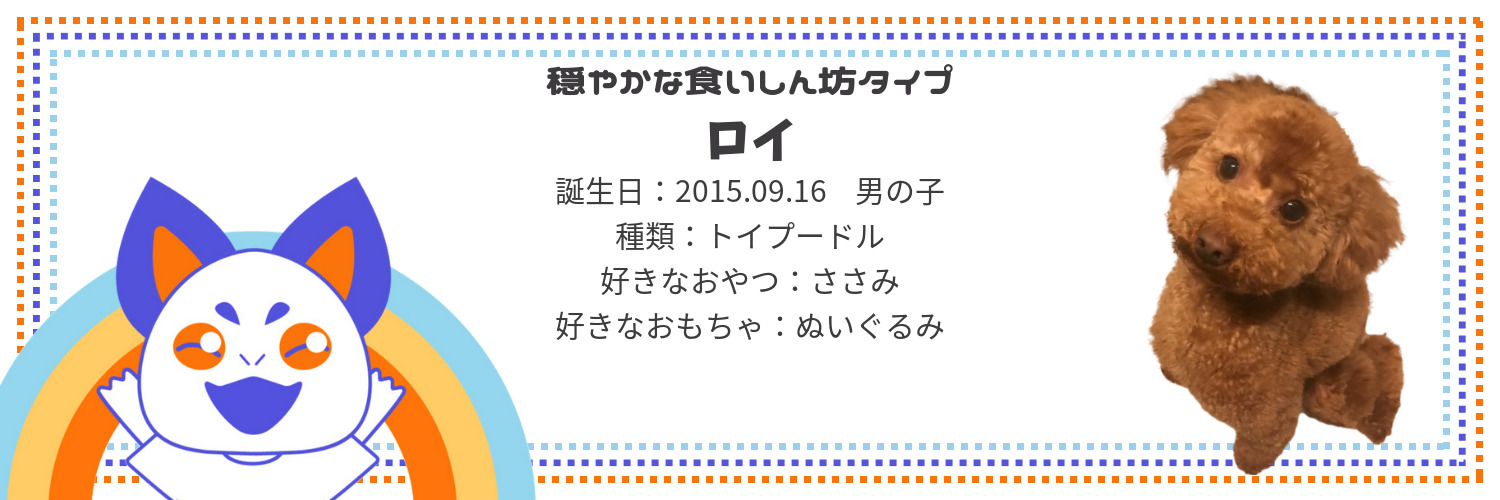
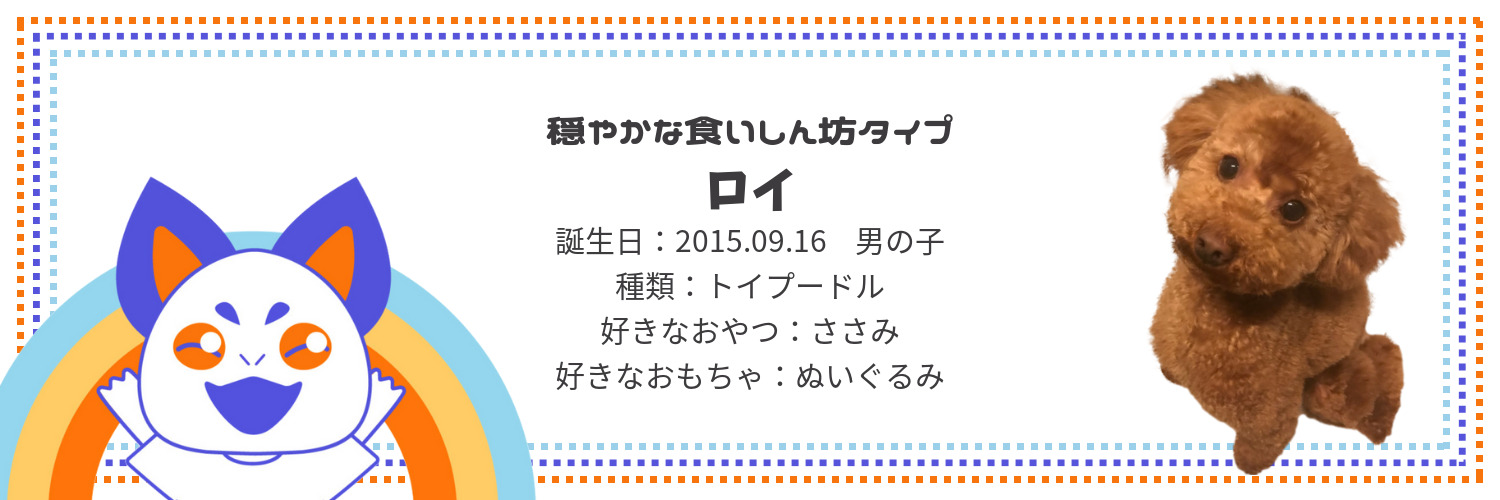
テキストの表示とプロフィールカードFの修正

diff --git a/lib/create_profile_card.rb b/lib/create_profile_card.rb
@@ -13,7 +13,7 @@ module CreateProfileCard
 
     hash_e = {'base_img_url': './app/assets/images/base_img_e.png', 'color': '#3d3b3e', 'personality_position': [-200,-170], 'birthday_position': [-200,-60], 'breed_position': [-200,-15], 'treat_position': [-200,30], 'toy_position': [-200,75], 'name_color': '#3d3b3e', 'name_position': [-200,-110], 'face_position': [800,0], 'write_url': './app/assets/images/profile_card_data_e.jpg'}
 
-    hash_f = {'base_img_url': './app/assets/images/base_img_f.png', 'color': '#3d3b3e', 'personality_position': [0,-170], 'birthday_position': [0,-60], 'breed_position': [0,-15], 'treat_position': [0,30], 'toy_position': [0,75], 'name_color': '#3d3b3e', 'name_position': [0,-110], 'face_position': [1000,25], 'write_url': './app/assets/images/profile_card_data_f.jpg'}
+    hash_f = {'base_img_url': './app/assets/images/base_img_f.png', 'color': '#3d3b3e', 'personality_position': [0,-120], 'birthday_position': [0,-10], 'breed_position': [0,35], 'treat_position': [0,80], 'toy_position': [0,125], 'name_color': '#3d3b3e', 'name_position': [0,-60], 'face_position': [1000,25], 'write_url': './app/assets/images/profile_card_data_f.jpg'}
 
     hash_g = {'base_img_url': './app/assets/images/base_img_g.png', 'color': '#3d3b3e', 'personality_position': [60,580], 'birthday_position': [60,640], 'breed_position': [60,685], 'treat_position': [60,730], 'toy_position': [60,775], 'name_color': '#3d3b3e', 'name_position': [200,-710], 'face_position': [0,320], 'write_url': './app/assets/images/profile_card_data_g.jpg'}
 
